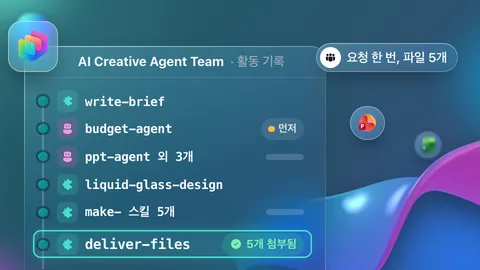
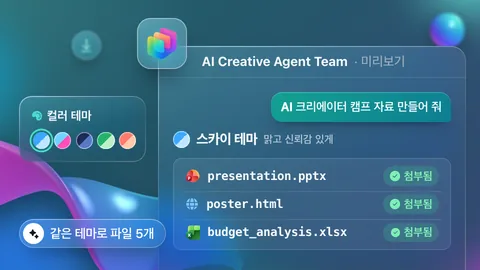
Update thumbnail for copilot-studio/copilotstudio
AI Creative Agent Team 만들기

https://github.com/oneot/elevate/actions/runs/39901158511

diff --git a/tools/post-thumbs/scenes/auto/copilot-studio/copilotstudio.js b/tools/post-thumbs/scenes/auto/copilot-studio/copilotstudio.js
@@ -1,45 +1,58 @@
-/* copilot-studio/copilotstudio — Preview activity trace: skills and connected agents called in order, files attached */
+/* copilot-studio/copilotstudio — Preview answer: chosen color theme + deliverables table, every file attached */
 (() => {
   scene('copilot-studio/copilotstudio', (K) => {
-    const step = (kind, name, extra = '', cls = '') => `<div class="st ${cls}">
-      <span class="dt"></span>
-      <span class="ni ${kind}">${K.ico(kind === 'ag' ? 'bot' : 'puzzle_piece', { s: 2.7 })}</span>
-      <b>${name}</b><span class="sp"></span>${extra}
-    </div>`;
+    const row = (icon, name) => `<div class="fr">${icon}<b>${name}</b><span class="sp"></span>
+      <span class="ok">${K.ico('checkmark_circle', { s: 2.4 })}첨부됨</span></div>`;
+    const sw = (a, b, on) => `<i class="sw${on ? ' on' : ''}" style="--a:${a};--b:${b}"></i>`;
     return K.win({
-      x: 5, y: 9.5, w: 63, h: 52, title: 'AI Creative Agent Team', sub: ' · 활동 기록', icon: false,
-      body: `<div class="tr">
-        ${step('sk', 'write-brief')}
-        ${step('ag', 'budget-agent', K.chip('먼저', { dot: 'var(--amber)' }))}
-        ${step('ag', 'ppt-agent 외 3개', K.skel('8cqw'))}
-        ${step('sk', 'liquid-glass-design')}
-        ${step('sk', 'make- 스킬 5개', K.skel('8cqw'))}
-        ${step('sk', 'deliver-files', K.chip('5개 첨부됨', { icon: 'checkmark_circle', cls: 'ok' }), 'on')}
+      x: 33, y: 9.5, w: 64, h: 50, title: 'AI Creative Agent Team', sub: ' · 미리보기', icon: false,
+      body: `<div class="ch">
+        ${K.bubble('AI 크리에이터 캠프 자료 만들어 줘', { me: true })}
+        <div class="th">${sw('#3aa8ff', '#bfe6ff')}<b>스카이 테마</b><span>맑고 신뢰감 있게</span></div>
+        <div class="tb">
+          ${row(K.app('powerpoint', { s: 3.2 }), 'presentation.pptx')}
+          ${row(K.ico('globe', { s: 3, c: 'var(--sky)' }), 'poster.html')}
+          ${row(K.app('excel', { s: 3.2 }), 'budget_analysis.xlsx')}
+        </div>
       </div>`,
     })
-      + K.tile({ x: 1.6, y: 4.4, s: 10.5 })
-      + K.float({ x: 73, y: 22, s: 7.2, app: 'powerpoint' })
-      + K.float({ x: 86.5, y: 27.5, s: 5.4, app: 'excel', far: true })
-      + K.pill({ right: 4.5, y: 9, icon: 'people_team', text: '요청 한 번, 파일 5개' });
+      + K.card({
+        x: 4, y: 20, w: 26.5, cls: 'pk',
+        body: `<p class="pl">${K.ico('color', { s: 2.6 })}컬러 테마</p>
+          <div class="sws">${sw('#3aa8ff', '#bfe6ff', true)}${sw('#6fd3ff', '#ff4fb8')}${sw('#1d2b5a', '#5a78c8')}${sw('#25b26b', '#bdf0c9')}${sw('#ff7a6b', '#ffc9ae')}</div>`,
+      })
+      + K.tile({ x: 28.5, y: 3.8, s: 10.5 })
+      + K.float({ x: 15, y: 6.5, s: 6, icon: 'arrow_download', far: true })
+      + K.pill({ x: 4, bottom: 4.5, icon: 'sparkle', text: '같은 테마로 파일 5개' });
   }, {
-    deco: { big: 'ribbon', small: 'sphere', v: 0 },
+    deco: { big: 'ribbon', small: 'sphere', v: 1 },
     css: `
-      .win__bar { padding-left: 11.2cqw; font-size: 2.7cqw; font-weight: 700; }
-      .tr { position: relative; display: flex; flex-direction: column; gap: .7cqw; padding: 2.2cqw 3cqw; }
-      .tr::before { content: ''; position: absolute; left: 3.85cqw; top: 4.4cqw; bottom: 0; width: .25cqw; background: rgba(255, 255, 255, .2); }
-      .st { position: relative; display: flex; align-items: center; gap: 1.4cqw; height: 5.1cqw; padding: 0 1.6cqw 0 0; border-radius: 1.6cqw; }
-      .dt { flex: none; width: 1.9cqw; height: 1.9cqw; margin-right: .6cqw; border-radius: 50%; background: var(--grad); box-shadow: 0 0 0 .45cqw rgba(14, 40, 54, .5); }
-      .ni { flex: none; display: grid; place-items: center; width: 4.4cqw; height: 4.4cqw; border-radius: 1.2cqw; background: rgba(var(--tint), .18); color: rgb(var(--tint)); }
-      .ni.ag { background: rgba(225, 87, 190, .2); color: #ff9ade; }
-      .st b { font-family: var(--mono); font-size: 2.6cqw; font-weight: 700; color: var(--ink); white-space: nowrap; letter-spacing: -0.02em; }
-      .st .sp { flex: 1; }
-      .st .chip { font-size: 2.2cqw; font-weight: 700; }
-      .st.on { margin-left: -1.2cqw; padding-left: 1.2cqw; background: rgba(var(--tint), .14); box-shadow: inset 0 0 0 .3cqw rgb(var(--tint)), 0 0 3cqw -1cqw rgba(var(--tint), .5); }
-      .st.on { height: 5.8cqw; margin-top: .5cqw; }
-      .st.on b { font-size: 2.9cqw; }
-      .st.on .chip { font-size: 2.4cqw; }
-      .ok { background: rgba(63, 214, 143, .2); color: #7ef0b6; }
-      .ok .ico { color: #7ef0b6; }
+      --sky: #2f8fe6;
+      .win__bar { padding-left: 9cqw; font-size: 2.7cqw; font-weight: 700; }
+      .ch { display: flex; flex-direction: column; gap: 2cqw; padding: 2.8cqw 3cqw; }
+      .ch .bubble { align-self: flex-end; font-size: 2.5cqw; white-space: nowrap; }
+      .th { display: flex; align-items: center; gap: 1.3cqw; white-space: nowrap; }
+      .th b { font-size: 2.9cqw; font-weight: 750; letter-spacing: -0.03em; }
+      .th span { font-size: 2.2cqw; font-weight: 600; color: var(--ink-3); }
+      .sw { flex: none; display: block; width: 3.6cqw; height: 3.6cqw; border-radius: 50%; background: linear-gradient(135deg, var(--a) 50%, var(--b) 50%); box-shadow: inset 0 0 0 .2cqw rgba(255, 255, 255, .5); }
+      .tb { display: flex; flex-direction: column; gap: .9cqw; padding: 1.2cqw; border-radius: 1.8cqw; background: rgba(255, 255, 255, .5); box-shadow: inset 0 0 0 .2cqw var(--line-2); }
+      .fr { display: flex; align-items: center; gap: 1.4cqw; height: 5cqw; padding: 0 1.4cqw; border-radius: 1.2cqw; }
+      .fr + .fr { box-shadow: 0 -.5cqw 0 -.35cqw var(--line-2); }
+      .fr b { font-family: var(--mono); font-size: 2.5cqw; font-weight: 700; white-space: nowrap; letter-spacing: -0.02em; }
+      .sp { flex: 1; }
+      .ok { display: inline-flex; align-items: center; gap: .6cqw; padding: .6cqw 1.3cqw; border-radius: 99px; background: rgba(36, 170, 104, .14); color: #16884f; font-size: 2.3cqw; font-weight: 700; white-space: nowrap; }
+      .pk { z-index: 3; padding: 2.4cqw 2.4cqw 2.6cqw; }
+      .pl { display: flex; align-items: center; gap: .8cqw; font-size: 2.5cqw; font-weight: 700; color: var(--ink); white-space: nowrap; }
+      .pl .ico { color: rgb(var(--tint)); }
+      .sws { display: flex; gap: .9cqw; margin-top: 1.8cqw; padding-left: .4cqw; }
+      .sws .sw.on { box-shadow: 0 0 0 .35cqw rgba(14, 40, 54, .6), 0 0 0 .7cqw rgb(var(--tint)); }
+      &.dark {
+        --sky: #7cc4ff;
+        .th span { color: var(--ink-3); }
+        .tb { background: rgba(255, 255, 255, .07); box-shadow: inset 0 0 0 .15cqw rgba(255, 255, 255, .14); }
+        .fr + .fr { box-shadow: 0 -.5cqw 0 -.35cqw rgba(255, 255, 255, .14); }
+        .ok { background: rgba(63, 214, 143, .2); color: #7ef0b6; }
+      }
     `,
   });
 })();
